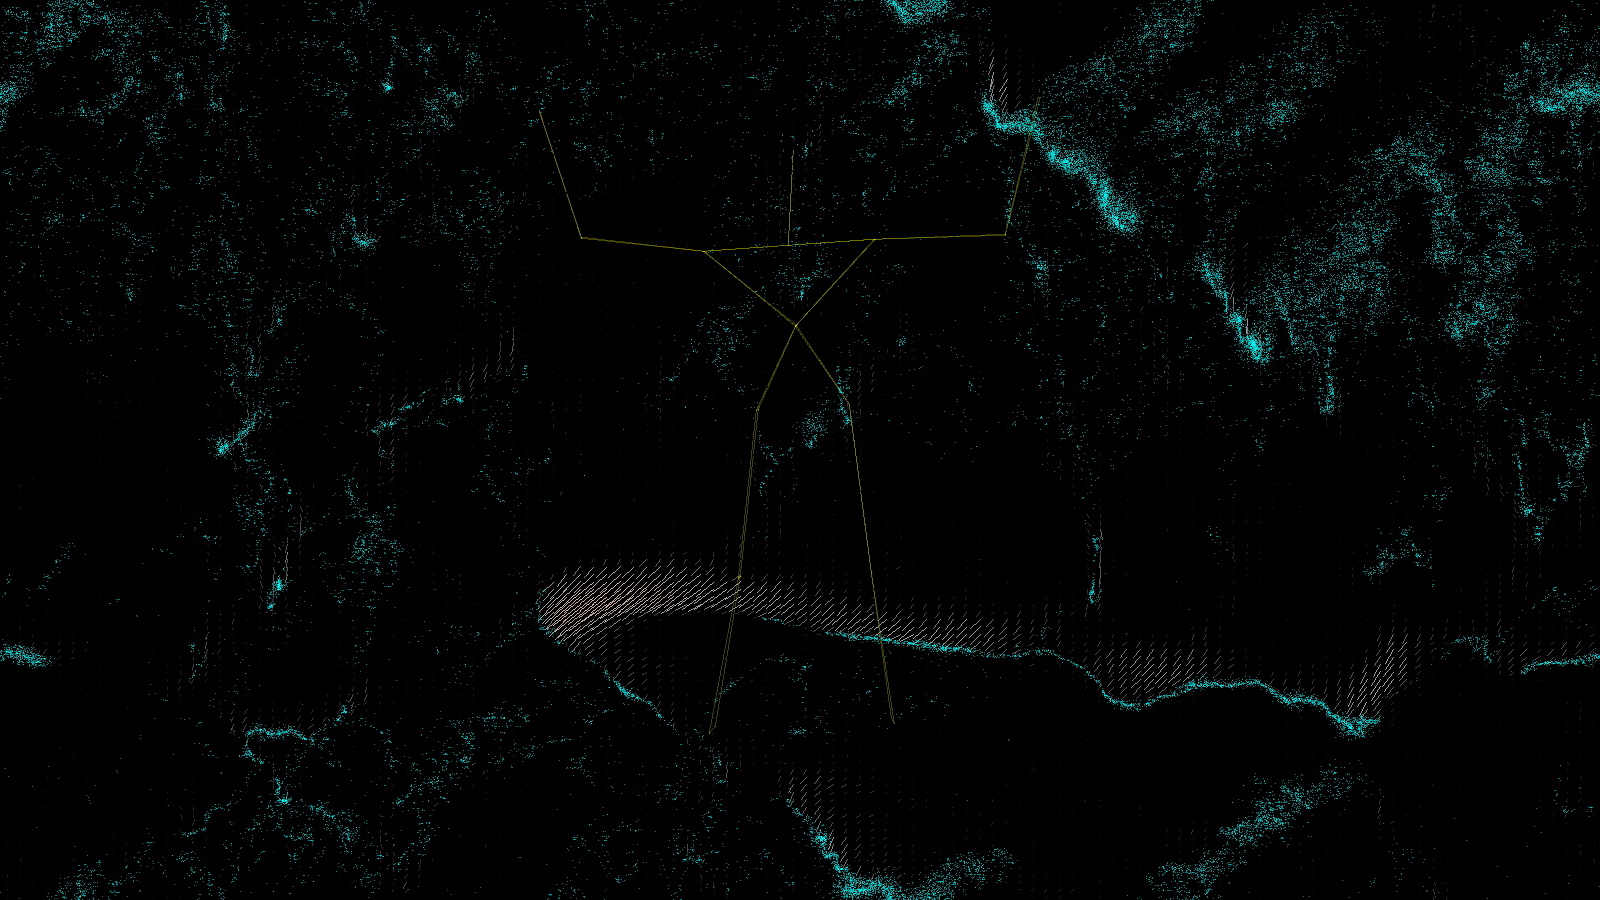
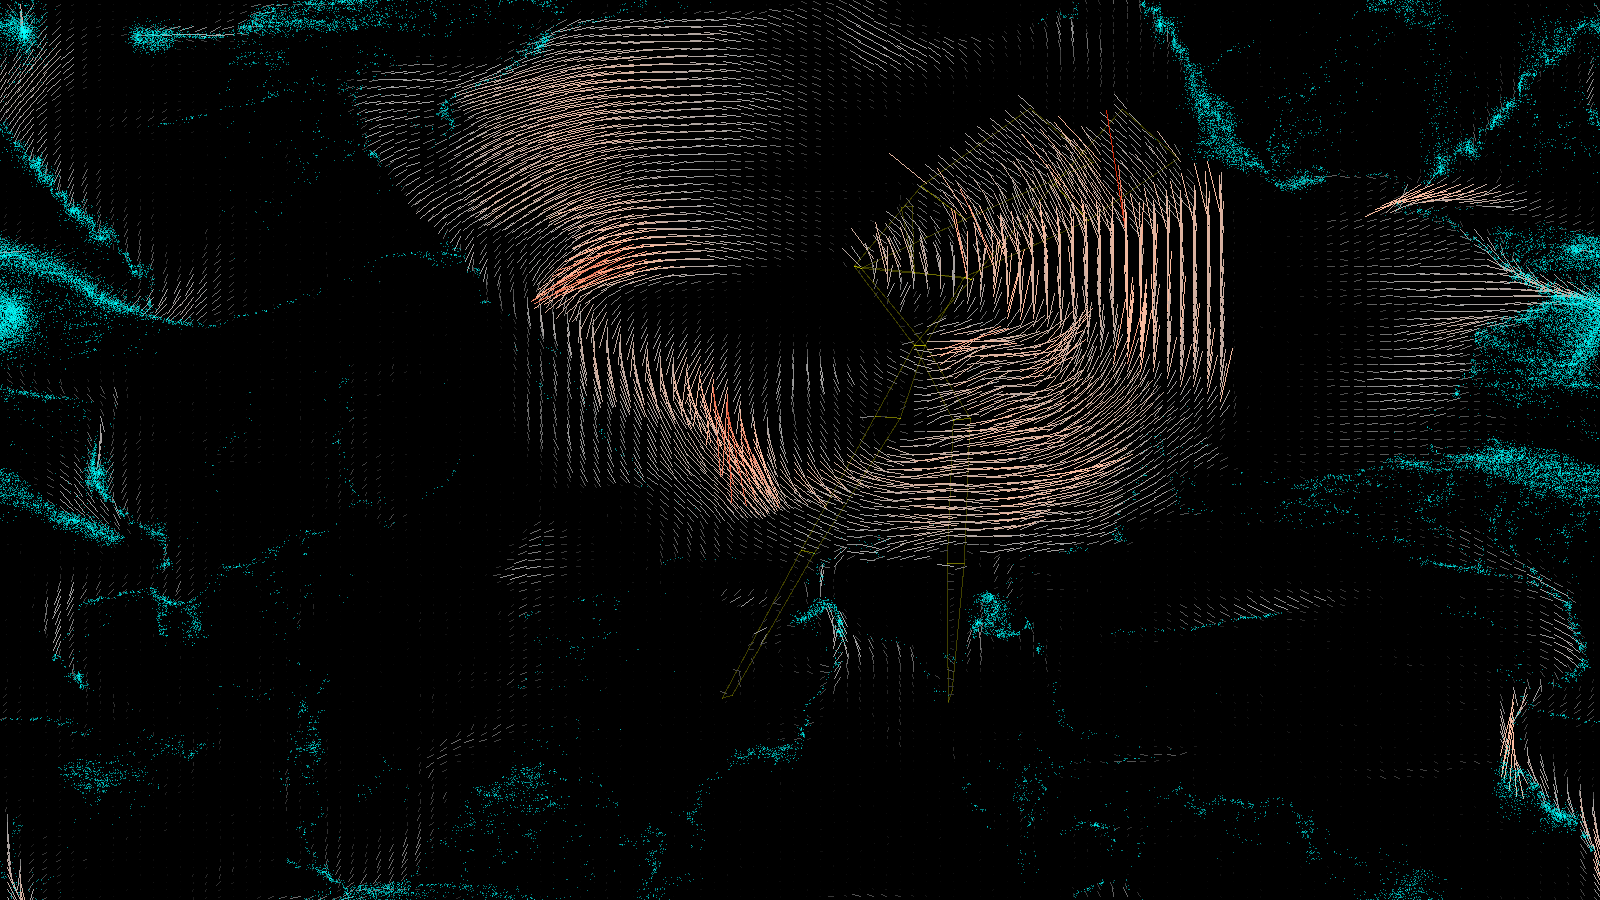
add vectorfield image to projects

diff --git a/client/html/projects.html b/client/html/projects.html
@@ -48,12 +48,12 @@
 
 	  <div class="item">
 	    <div class="image">
-	      <img src="/images/installations/vectorfield1.jpg">
+	      <img src="/images/installations/vectorfield/vectorfield1.png">
 	    </div>
 	    <div class="content">
 	      <div class="name">Vector Field</div>
 	      <span><a class="maker">Xiaohan Zhang</a></span>
-	      <p class="description">This is a description</p>
+	      <p class="description">Control a directional flow field surrounding your body and those around you.</p>
 	    </div>
 	  </div>
 	  
